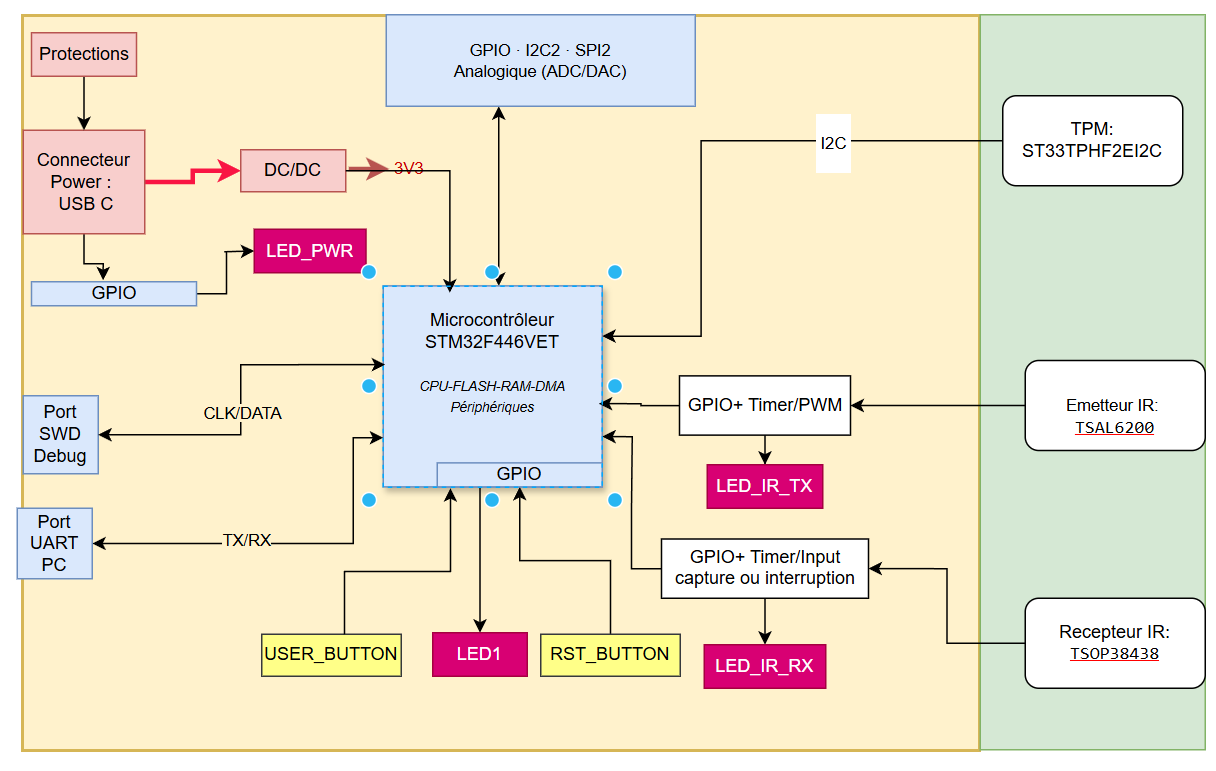
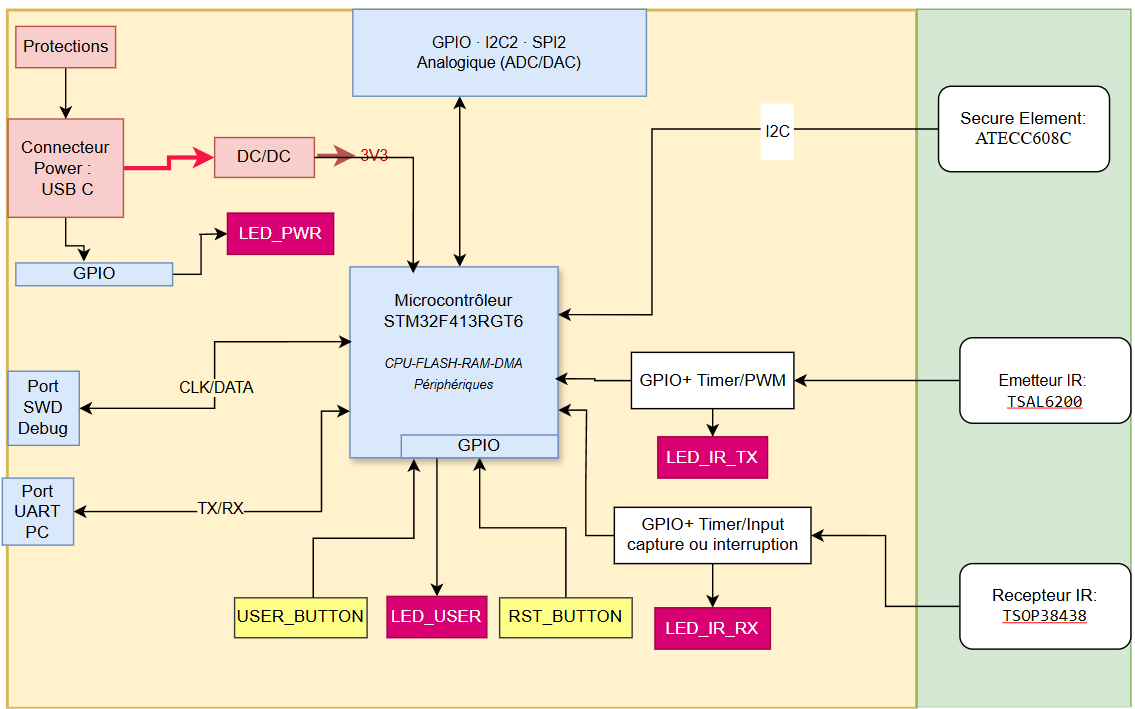
Mise à Jour

Changed region(s): [[0.0, 0.0, 1.0, 1.0], [0.6476, 0.1551, 0.7093, 0.1862]]

diff --git a/index.html b/index.html
@@ -236,6 +236,10 @@ footer{border-top:1px solid var(--line);margin-top:56px;padding-top:24px}
           <a href="Images/PCB1.png" target="_blank" rel="noopener"><img src="Images/PCB1.png" alt="Réalisation PCB" loading="lazy"></a>
           <figcaption>Réalisation PCB</figcaption>
         </figure>
+        <figure>
+          <a href="Images/3D_form.png" target="_blank" rel="noopener"><img src="Images/3D_form.png" alt="Representation 3D" loading="lazy"></a>
+          <figcaption>Representation 3D</figcaption>
+        </figure>
         </div>
       </div>
         </details>
